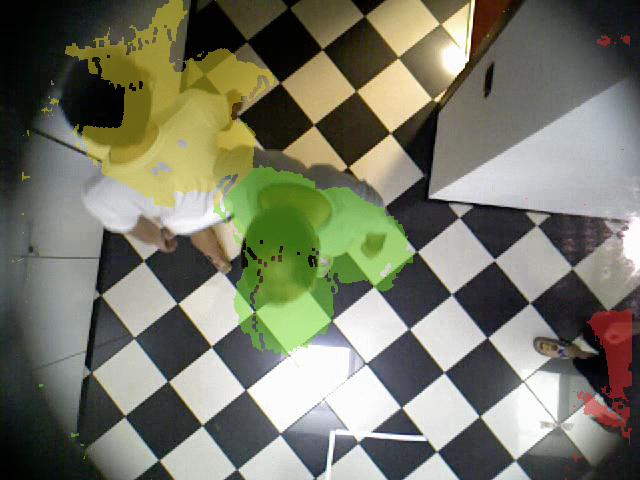
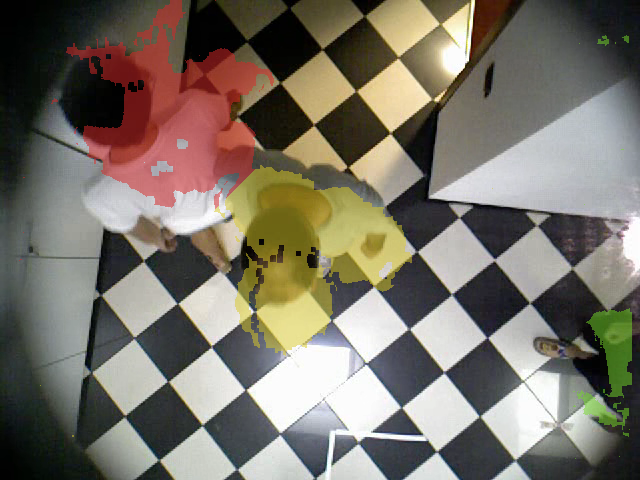
Doubled dilation iterations

diff --git a/src/person_detector.cpp b/src/person_detector.cpp
@@ -39,7 +39,7 @@ void PersonDetector::detect_people(int image_id, cv::Mat& output, unsigned int& 
 
   cv::Mat mask = (first_derivative > 0) & (second_derivative > 0);
 
-  cv::dilate(mask, mask, cv::Mat());
+  cv::dilate(mask, mask, cv::Mat(), cv::Point(-1,-1), 2);
   cv::threshold(mask, mask, 1, 255, cv::THRESH_BINARY_INV);
 
   // duplicate depth_image, but with its mean color
